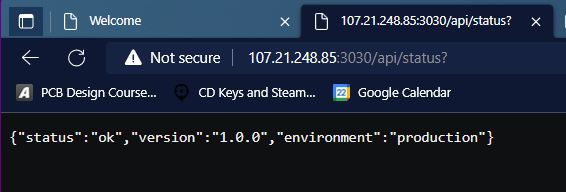
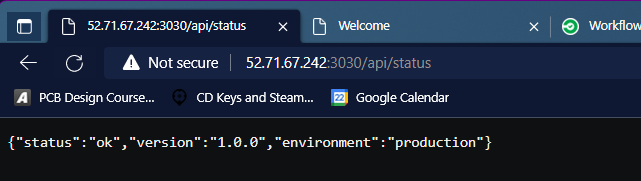
final [ci skip]

diff --git a/README.md b/README.md
@@ -1,64 +1,75 @@
-We are archiving this repository because we do not want learners to push personal development to the current repository. If you have any issues or suggestions to make, feel free to:
-- Utilize the https://knowledge.udacity.com/ forum to seek help on content-specific issues.
-- [Submit a support ticket](https://udacity.zendesk.com/hc/en-us/requests/new) along with the link to your forked repository. 
-- If you are an enterprise learner, please [Submit a support ticket here](https://udacityenterprise.zendesk.com/hc/en-us/requests/new?ticket_form_id=360000279131)
+# Project 3 Submission
 
-## Give your Application Auto-Deploy Superpowers
+## Presentation PDF
 
-In this project, you will prove your mastery of the following learning objectives:
+[Project Presentation](Presentation.pdf)
 
-- Explain the fundamentals and benefits of CI/CD to achieve, build, and deploy automation for cloud-based software products.
-- Utilize Deployment Strategies to design and build CI/CD pipelines that support Continuous Delivery processes.
-- Utilize a configuration management tool to accomplish deployment to cloud-based servers.
-- Surface critical server errors for diagnosis using centralized structured logging.
+## URLs
 
-![Diagram of CI/CD Pipeline we will be building.](udapeople.png)
+1. Public Url to GitHub repository [URL01]
+<https://github.com/mo-gaafar/App_with_Auto-Deploy_Superpowers>
 
-### Instructions
+2. Evidence of deployed and functioning front-end application in an S3 bucket [URL02] 
+<http://udapeople-47c6836.s3-website-us-east-1.amazonaws.com/#/employees>
 
-* [Selling CI/CD](instructions/0-selling-cicd.md)
-* [Getting Started](instructions/1-getting-started.md)
-* [Deploying Working, Trustworthy Software](instructions/2-deploying-trustworthy-code.md)
-* [Configuration Management](instructions/3-configuration-management.md)
-* [Turn Errors into Sirens](instructions/4-turn-errors-into-sirens.md)
+- [URL02_SCREENSHOT]
 
-### Project Submission
+    ![URL02_SCREENSHOT](screenshots/URL02_SCREENSHOT.png)
 
-For your submission, please submit the following:
+3. Cloudfront CDN [URL03] [Cloudfront URL](https://du2suqh3yregj.cloudfront.net/)
 
-- A text file named `urls.txt` including:
-  1. Public Url to GitHub repository (not private) [URL01]
-  1. Public URL for your S3 Bucket (aka, your green candidate front-end) [URL02]
-  1. Public URL for your CloudFront distribution (aka, your blue production front-end) [URL03]
-  1. Public URLs to deployed application back-end in EC2 [URL04]
-  1. Public URL to your Prometheus Server [URL05]
-- Your screenshots in JPG or PNG format, named using the screenshot number listed in the instructions. These screenshots should be included in your code repository in the root folder.
-  1. Job failed because of compile errors. [SCREENSHOT01]
-  1. Job failed because of unit tests. [SCREENSHOT02]
-  1. Job that failed because of vulnerable packages. [SCREENSHOT03]
-  1. An alert from one of your failed builds. [SCREENSHOT04]
-  1. Appropriate job failure for infrastructure creation. [SCREENSHOT05]
-  1. Appropriate job failure for the smoke test job. [SCREENSHOT06]
-  1. Successful rollback after a failed smoke test. [SCREENSHOT07]  
-  1. Successful promotion job. [SCREENSHOT08]
-  1. Successful cleanup job. [SCREENSHOT09]
-  1. Only deploy on pushed to `master` branch. [SCREENSHOT10]
-  1. Provide a screenshot of a graph of your EC2 instance including available memory, available disk space, and CPU usage. [SCREENSHOT11]
-  1. Provide a screenshot of an alert that was sent by Prometheus. [SCREENSHOT12]
+- Provide a screenshot showing the evidence of deployed and functioning front-end application in CloudFront (aka, your production front-end). [URL03_SCREENSHOT]
+    ![URL03_SCREENSHOT](screenshots/URL03_SCREENSHOT.png)
 
-- Your presentation should be in PDF format named "presentation.pdf" and should be included in your code repository root folder. 
+4. Evidence of healthy back-end application. [URL04]
 
-Before you submit your project, please check your work against the project rubric. If you haven’t satisfied each criterion in the rubric, then revise your work so that you have met all the requirements. 
+- Provide a screenshot showing the evidence of a healthy backend application. The backend endpoint status should show a healthy response. [URL04_SCREENSHOT]
+![URL04_SCREENSHOT](screenshots/URL04_SCREENSHOT.png)
 
-### Built With
+5. Evidence of Prometheus Server. [URL05]
 
-- [Circle CI](www.circleci.com) - Cloud-based CI/CD service
-- [Amazon AWS](https://aws.amazon.com/) - Cloud services
-- [AWS CLI](https://aws.amazon.com/cli/) - Command-line tool for AWS
-- [CloudFormation](https://aws.amazon.com/cloudformation/) - Infrastrcuture as code
-- [Ansible](https://www.ansible.com/) - Configuration management tool
-- [Prometheus](https://prometheus.io/) - Monitoring tool
+- Provide a screenshot of your Prometheus server showing UP state [URL05_SCREENSHOT]
+![URL05_SCREENSHOT](screenshots/URL05_SCREENSHOT.png)
 
-### License
+## Screenshots
 
-[License](LICENSE.md)
+1. Job failed because of compile errors. [SCREENSHOT01]
+![SCREENSHOT01](screenshots/SCREENSHOT01.png)
+
+2. Job failed because of unit tests. [SCREENSHOT02]
+![SCREENSHOT02](screenshots/SCREENSHOT02A.png)
+![SCREENSHOT02](screenshots/SCREENSHOT02B.png)
+
+3. Job that failed because of vulnerable packages. [SCREENSHOT03]
+![SCREENSHOT03](screenshots/SCREENSHOT03A.png)
+![SCREENSHOT03](screenshots/SCREENSHOT03B.png)
+
+4. An alert from one of your failed builds. [SCREENSHOT04]
+![SCREENSHOT04](screenshots/SCREENSHOT04.png)
+
+5. Appropriate job failure for infrastructure creation. [SCREENSHOT05]
+![SCREENSHOT05](screenshots/SCREENSHOT05.png)
+
+6. Appropriate job failure for the smoke test job. [SCREENSHOT06]
+![SCREENSHOT06](screenshots/SCREENSHOT06.png)
+
+7. Successful rollback after a failed smoke test. [SCREENSHOT07]
+![SCREENSHOT07](screenshots/SCREENSHOT07.png)
+
+8. Successful promotion job. [SCREENSHOT08]
+![SCREENSHOT08](screenshots/SCREENSHOT08.png)
+
+9. Successful cleanup job. [SCREENSHOT09]
+![SCREENSHOT09](screenshots/SCREENSHOT09.png)
+
+10. Only deploy on pushed to master branch. [SCREENSHOT10]
+![SCREENSHOT10](screenshots/SCREENSHOT10.png)
+
+11. Provide a screenshot of a graph of your EC2 instance including available memory, available disk space, and CPU usage. [SCREENSHOT11]
+![SCREENSHOT11](screenshots/SCREENSHOT11A.png)
+![SCREENSHOT11](screenshots/SCREENSHOT11B.png)
+![SCREENSHOT11](screenshots/SCREENSHOT11C.png)
+
+12. Provide a screenshot of an alert that was sent by Prometheus. [SCREENSHOT12]
+![SCREENSHOT12](screenshots/SCREENSHOT12.png)
+

diff --git a/README_old.md b/README_old.md
@@ -1,0 +1,64 @@
+We are archiving this repository because we do not want learners to push personal development to the current repository. If you have any issues or suggestions to make, feel free to:
+- Utilize the https://knowledge.udacity.com/ forum to seek help on content-specific issues.
+- [Submit a support ticket](https://udacity.zendesk.com/hc/en-us/requests/new) along with the link to your forked repository. 
+- If you are an enterprise learner, please [Submit a support ticket here](https://udacityenterprise.zendesk.com/hc/en-us/requests/new?ticket_form_id=360000279131)
+
+## Give your Application Auto-Deploy Superpowers
+
+In this project, you will prove your mastery of the following learning objectives:
+
+- Explain the fundamentals and benefits of CI/CD to achieve, build, and deploy automation for cloud-based software products.
+- Utilize Deployment Strategies to design and build CI/CD pipelines that support Continuous Delivery processes.
+- Utilize a configuration management tool to accomplish deployment to cloud-based servers.
+- Surface critical server errors for diagnosis using centralized structured logging.
+
+![Diagram of CI/CD Pipeline we will be building.](udapeople.png)
+
+### Instructions
+
+* [Selling CI/CD](instructions/0-selling-cicd.md)
+* [Getting Started](instructions/1-getting-started.md)
+* [Deploying Working, Trustworthy Software](instructions/2-deploying-trustworthy-code.md)
+* [Configuration Management](instructions/3-configuration-management.md)
+* [Turn Errors into Sirens](instructions/4-turn-errors-into-sirens.md)
+
+### Project Submission
+
+For your submission, please submit the following:
+
+- A text file named `urls.txt` including:
+  1. Public Url to GitHub repository (not private) [URL01]
+  1. Public URL for your S3 Bucket (aka, your green candidate front-end) [URL02]
+  1. Public URL for your CloudFront distribution (aka, your blue production front-end) [URL03]
+  1. Public URLs to deployed application back-end in EC2 [URL04]
+  1. Public URL to your Prometheus Server [URL05]
+- Your screenshots in JPG or PNG format, named using the screenshot number listed in the instructions. These screenshots should be included in your code repository in the root folder.
+  1. Job failed because of compile errors. [SCREENSHOT01]
+  1. Job failed because of unit tests. [SCREENSHOT02]
+  1. Job that failed because of vulnerable packages. [SCREENSHOT03]
+  1. An alert from one of your failed builds. [SCREENSHOT04]
+  1. Appropriate job failure for infrastructure creation. [SCREENSHOT05]
+  1. Appropriate job failure for the smoke test job. [SCREENSHOT06]
+  1. Successful rollback after a failed smoke test. [SCREENSHOT07]  
+  1. Successful promotion job. [SCREENSHOT08]
+  1. Successful cleanup job. [SCREENSHOT09]
+  1. Only deploy on pushed to `master` branch. [SCREENSHOT10]
+  1. Provide a screenshot of a graph of your EC2 instance including available memory, available disk space, and CPU usage. [SCREENSHOT11]
+  1. Provide a screenshot of an alert that was sent by Prometheus. [SCREENSHOT12]
+
+- Your presentation should be in PDF format named "presentation.pdf" and should be included in your code repository root folder. 
+
+Before you submit your project, please check your work against the project rubric. If you haven’t satisfied each criterion in the rubric, then revise your work so that you have met all the requirements. 
+
+### Built With
+
+- [Circle CI](www.circleci.com) - Cloud-based CI/CD service
+- [Amazon AWS](https://aws.amazon.com/) - Cloud services
+- [AWS CLI](https://aws.amazon.com/cli/) - Command-line tool for AWS
+- [CloudFormation](https://aws.amazon.com/cloudformation/) - Infrastrcuture as code
+- [Ansible](https://www.ansible.com/) - Configuration management tool
+- [Prometheus](https://prometheus.io/) - Monitoring tool
+
+### License
+
+[License](LICENSE.md)
